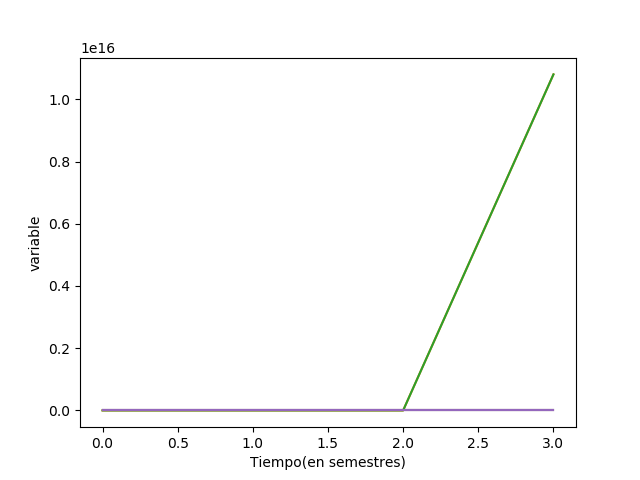
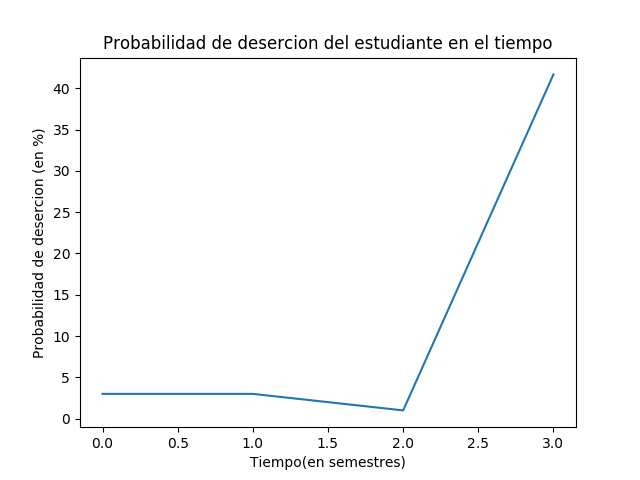
Se determina el modelo definitivo de graficacion dandole peso a cada variable que influye en la probabilidad de desercion estudiantil

diff --git a/Aplicacion/views.py b/Aplicacion/views.py
@@ -22,14 +22,17 @@ def Ingreso_Evaluador(entrada):
     return HttpResponse(template.render(context,entrada))
 
 def Encuesta(entrada):
+    filelist = [f for f in os.listdir("Aplicacion/templates/imagenes/") if f.endswith(".png")]
+    for f in filelist:
+        os.remove("Aplicacion/templates/imagenes/" + f)
     template=loader.get_template('gracias.html')
     dato=entrada.POST
-    filelist = [ f for f in os.listdir("Aplicacion/templates/imagenes/") if f.endswith(".png") ]
-    for f in filelist:
-        os.remove("Aplicacion/templates/imagenes/"+f)
     lista1=[]
     lista2=[]
     lista3=[]
+
+    x=range(0,4,1)
+    #grafica1: probabilidad
     for i in range(0,29,1):
         random1 = random.randrange(1, 5, 1)
         lista1.insert(i,random1)
@@ -41,19 +44,56 @@ def Encuesta(entrada):
     for i in range(0,29,1):
         random3 = random.randrange(1, 5, 1)
         lista3.insert(i,random3)
-
-    x=range(0,4,1)
-    #y1=[lista1[3],lista2[3],lista3[3],int(dato["radio3"])]
     probabilidad=(0.2*float(dato["radio28"]))+(0.025*float(dato["radio1"]))+(0.025*float(dato["radio3"]))+(0.025*float(dato["radio4"]))+(0.025*float(dato["radio7"]))+(0.05*float(dato["radio10"]))+(0.1*float(dato["radio11"]))+(0.05*float(dato["radio12"]))+(0.05*float(dato["radio15"]))+(0.05*float(dato["radio16"]))+(0.05*float(dato["radio26"]))+(0.01944*float(dato["radio"]))+(0.01944*float(dato["radio2"]))+(0.01944*float(dato["radio5"]))+(0.01944*float(dato["radio6"]))+(0.01944*float(dato["radio8"]))+(0.01944*float(dato["radio9"]))+(0.01944*float(dato["radio13"]))+(0.01944*float(dato["radio14"]))+(0.01944*float(dato["radio17"]))+(0.01944*float(dato["radio18"]))+(0.01944*float(dato["radio19"]))+(0.01944*float(dato["radio20"]))+(0.01944*float(dato["radio21"]))+(0.01944*float(dato["radio22"]))+(0.01944*float(dato["radio23"]))+(0.01944*float(dato["radio24"]))+(0.01944*float(dato["radio25"]))+(0.01944*float(dato["radio27"]))
-    print(probabilidad)
+    probabilidad=(-20*probabilidad)+100
     yprob=[lista1[0],lista2[0],lista3[0],probabilidad]
-
-    print(dato)
     plt.plot(x,yprob)
     plt.xlabel('Tiempo(en semestres)')
-    plt.ylabel('variable')
+    plt.ylabel('Probabilidad de desercion (en %)')
+    plt.title('Probabilidad de desercion del estudiante en el tiempo')
     plt.show()
     plt.savefig('Aplicacion/templates/imagenes/figure0.png')
+    plt.cla()
+    #grafica2:perseverancia
+    for i in range(0,29,1):
+        random1 = random.randrange(1, 5, 1)
+        lista1.insert(i,random1)
+
+    for i in range(0,29,1):
+        random1 = random.randrange(1, 5, 1)
+        lista2.insert(i,random1)
+
+    for i in range(0,29,1):
+        random3 = random.randrange(1, 5, 1)
+        lista3.insert(i,random3)
+    yprob=[lista1[0],lista2[0],lista3[0],int(dato["radio"])]
+    plt.plot(x,yprob)
+    plt.xlabel('Tiempo(en semestres)')
+    plt.ylabel('Perseverancia caracteristica del individuo (medido de 0 a 5)')
+    plt.title('Perseverancia caracteristica del individuo')
+    plt.show()
+    plt.savefig('Aplicacion/templates/imagenes/figure1.png')
+    plt.cla()
+    #grafica3:expectativas de exito
+    for i in range(0,29,1):
+        random1 = random.randrange(1, 5, 1)
+        lista1.insert(i,random1)
+
+    for i in range(0,29,1):
+        random1 = random.randrange(1, 5, 1)
+        lista2.insert(i,random1)
+
+    for i in range(0,29,1):
+        random3 = random.randrange(1, 5, 1)
+        lista3.insert(i,random3)
+    yprob = [lista1[0], lista2[0], lista3[0], int(dato["radio1"])]
+    plt.plot(x, yprob)
+    plt.xlabel('Tiempo(en semestres)')
+    plt.ylabel('Expectativas de exito del individuo (medido de 0 a 5)')
+    plt.title('Expectativas de exito del individuo')
+    plt.show()
+    plt.savefig('Aplicacion/templates/imagenes/figure2.png')
+    plt.cla()
     return HttpResponse(template.render(dato,entrada))
 
 
